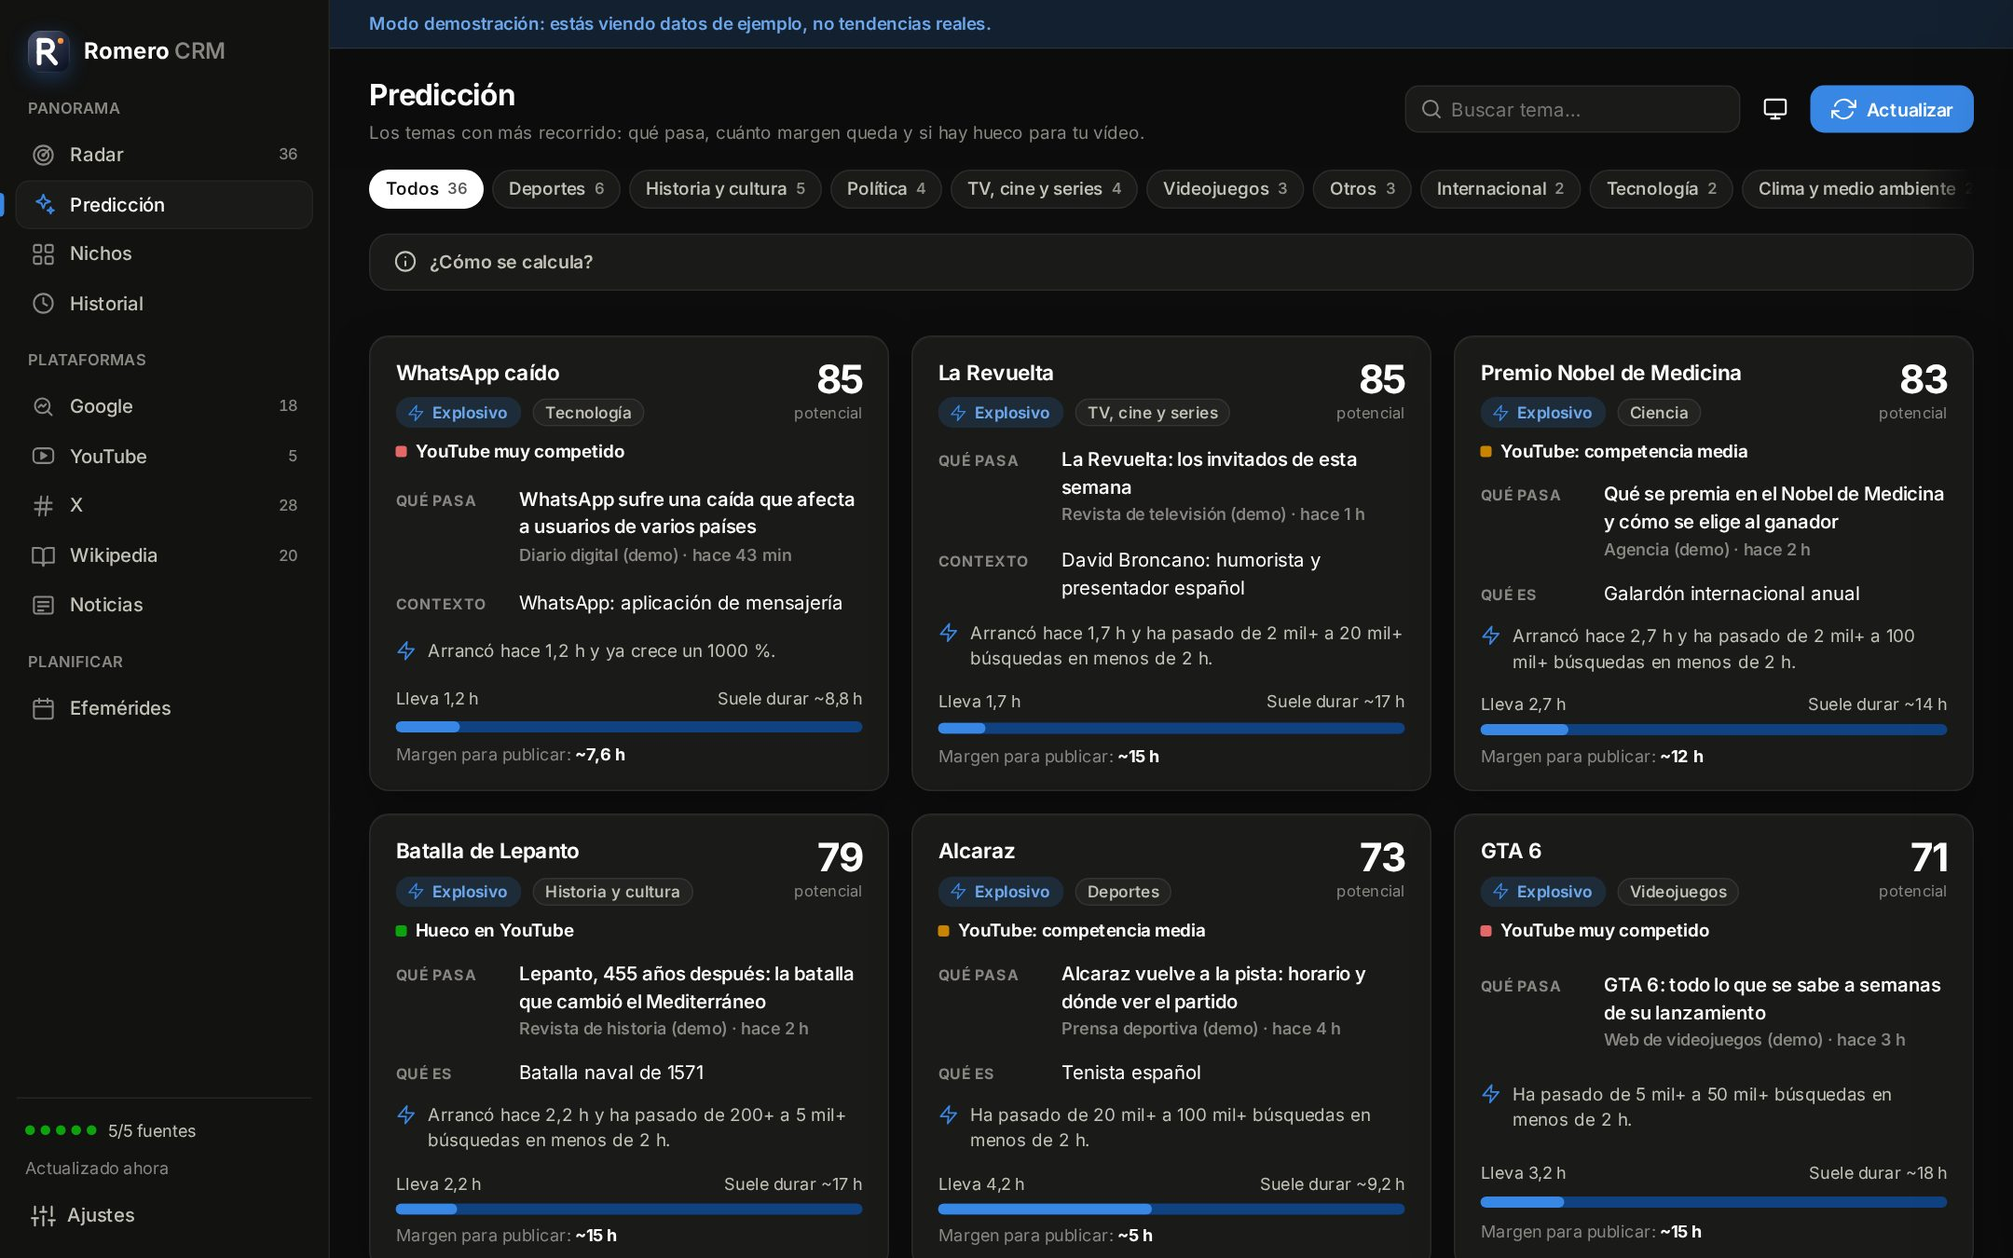
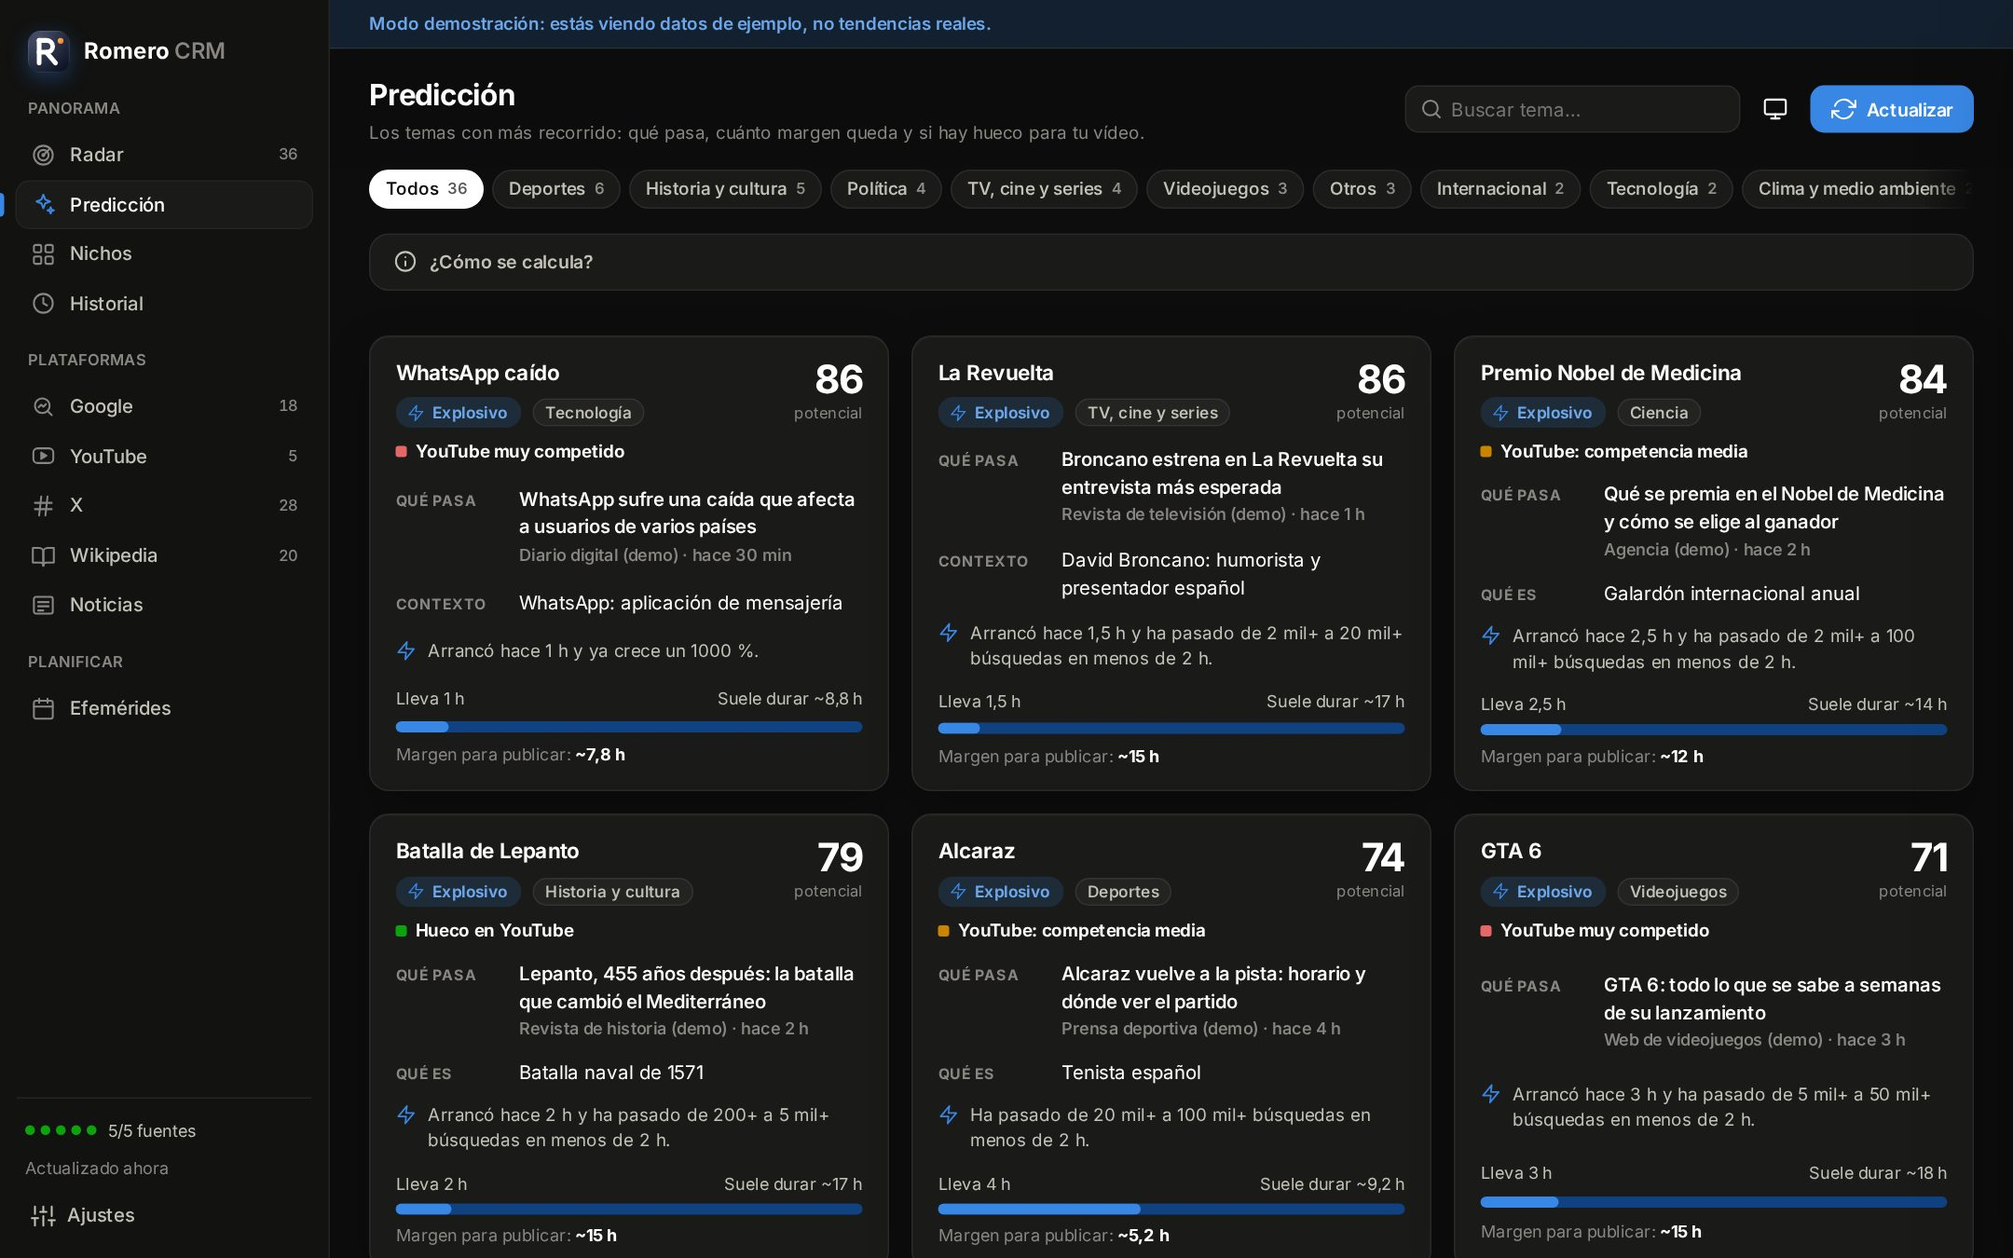
Explicaciones más fiables y para más temas, según los datos reales
El diagnóstico con tendencias reales mostró que solo 8 de los 20 primeros
temas tenían «qué pasa» y que había explicaciones engañosas:

- Los temas sin titular (los que vienen solo de X o de Wikipedia, como
  «Adamuz» o «Abascal») buscan ahora su titular en Google Noticias de las
  últimas 48 h. Los de Google piden además las noticias que Google asocia
  a la tendencia aunque ya tengan un titular de los medios.
- Un tema de una sola palabra solo se explica con un titular que la use
  como nombre propio o que Google asocie a la tendencia: «Batería» ya no
  se explica con una oferta de baterías externas.
- El contexto de Wikipedia con otro nombre solo se muestra si el titular
  habla de él: «Elecciones» ya no se describe con las de Brasil mientras
  el titular habla de las de España.
- Los temas sin nicho se reclasifican con los titulares encontrados.
- YouTube busca con «España» las palabras sueltas («Elecciones», «Votar»)
  para no medir la competencia con vídeos de otros países.
- La consulta de descripciones a Wikipedia reintenta si limita las
  peticiones, y la ficha de un tema sin titular usa el que encuentre al
  abrirla.
- En la demo, la competencia en YouTube de un tema sin datos ya no
  muestra la de otro tema.

Claude-Session: https://claude.ai/code/session_01QJ2QXsqEgvLoJoT1waY2Rv

diff --git a/romero-crm/romero_crm/web/js/app.js b/romero-crm/romero_crm/web/js/app.js
@@ -989,6 +989,7 @@ function buildBrief(topic, detail) {
 }
 
 function drawerHtml(topic, detail, loading) {
+  if (!topic.why && detail?.why) topic = { ...topic, why: detail.why };
   const stats = `
     <div class="d-stats">
       <div class="d-stat"><span>Calor</span><b>${topic.heat}</b></div>

diff --git a/romero-crm/romero_crm/engine.py b/romero-crm/romero_crm/engine.py
@@ -7,14 +7,14 @@ import traceback
 from concurrent.futures import ThreadPoolExecutor, as_completed
 
 from . import APP_NAME, APP_VERSION, analysis, explain
-from .net import APP_UA, make_session
+from .net import APP_UA, SourceError, make_session
 from .niches import NICHES, classify
 from .sources import efemerides, google_trends, news, wikipedia, x_trends, youtube
 from .sources.base import SOURCE_LABELS, SourceResult, failure
 
 CADENCE_MINUTES = {"wikipedia": 180, "google_week": 180, "efemerides": 720}
 EXPLAIN_TOP = 24
-TREND_NEWS_LIMIT = 10
+TREND_NEWS_LIMIT = 14
 DESCRIPTION_TTL = 24 * 3600
 TREND_NEWS_TTL = 45 * 60
 
@@ -195,7 +195,7 @@ class Engine:
         if self.demo_loader:
             return
         targets = [t for t in topics if not t["utility"]][:EXPLAIN_TOP]
-        for step in (self._add_descriptions, self._add_trend_news):
+        for step in (self._add_descriptions, self._add_headlines):
             try:
                 step(targets, now)
             except Exception:
@@ -208,7 +208,11 @@ class Engine:
         pending = [t["title"] for t in wanted
                    if now - (self._description_cache.get(t["title"]) or {}).get("at", 0) > DESCRIPTION_TTL]
         if pending:
-            found = wikipedia.lookup_titles(make_session(APP_UA), pending[:50])
+            try:
+                found = wikipedia.lookup_titles(make_session(APP_UA), pending[:50])
+            except SourceError:
+                time.sleep(4)
+                found = wikipedia.lookup_titles(make_session(APP_UA), pending[:50])
             for title, info in found.items():
                 self._description_cache[title] = dict(info, at=now)
             self._description_cache = {k: v for k, v in self._description_cache.items() if now - v.get("at", 0) < 7 * 86400}
@@ -226,17 +230,31 @@ class Engine:
                 if niches[0] != "otros":
                     topic["niches"], topic["niche"] = niches, niches[0]
 
-    def _add_trend_news(self, targets: list, now: float) -> None:
+    def _add_headlines(self, targets: list, now: float) -> None:
+        """Busca el titular que explica cada tema que aún no lo tiene: primero las noticias que Google
+        asocia a la tendencia y, si no hay, una búsqueda en Google Noticias de las últimas 48 h."""
         self._trend_news_cache = {k: v for k, v in self._trend_news_cache.items() if now - v["at"] < 2 * 3600}
-        need = [t for t in targets if not t.get("why") and (t.get("google") or {}).get("news_tokens")][:TREND_NEWS_LIMIT]
+
+        def wants_trend_news(topic):
+            return bool((topic.get("google") or {}).get("news_tokens")) and not any(
+                n.get("from_trend") for n in topic["news"].get("items") or [])
+
+        need = [t for t in targets if wants_trend_news(t) or (not t.get("why") and not t["title"].startswith("#"))]
+        need = need[:TREND_NEWS_LIMIT]
 
         def fetch(topic):
-            google = topic["google"]
-            cache_key = f"{google['id']}:{google.get('started_at') or 0}"
+            google = topic.get("google") or {}
+            cache_key = f"{topic['key']}:{google.get('started_at') or 0}"
             cached = self._trend_news_cache.get(cache_key)
             if cached and now - cached["at"] < TREND_NEWS_TTL:
                 return topic, cached["items"]
-            items = google_trends.fetch_news_by_tokens(google["news_tokens"][:3])
+            items = []
+            if wants_trend_news(topic):
+                items = [{"title": n["title"], "url": n["url"], "source": n["source"], "published": n.get("time"),
+                          "from_trend": True} for n in google_trends.fetch_news_by_tokens(google["news_tokens"][:3])]
+            if not items and not topic.get("why") and not topic["title"].startswith("#"):
+                items = [{"title": n["title"], "url": n["url"], "source": n["source"], "published": n.get("published"),
+                          "coverage": n.get("coverage") or 1} for n in news.search(topic["query"], limit=8)]
             self._trend_news_cache[cache_key] = {"at": now, "items": items}
             return topic, items
 
@@ -248,14 +266,25 @@ class Engine:
                     topic, items = future.result()
                 except Exception:
                     continue
-                extra = [{"title": n["title"], "url": n["url"], "source": n["source"], "published": n.get("time"),
-                          "from_trend": True} for n in items]
-                topic["news"]["items"] = analysis.dedupe_news(extra + topic["news"]["items"])[:10]
+                if not items:
+                    continue
+                topic["news"]["items"] = analysis.dedupe_news(items + topic["news"]["items"])[:10]
+                if topic["niche"] == "otros":
+                    headlines = [n["title"] for n in topic["news"]["items"] if explain.qualifies(topic, n)]
+                    niches = classify(topic["title"], topic.get("related") or [], headlines, None, topic.get("description") or "")
+                    if niches[0] != "otros":
+                        topic["niches"], topic["niche"] = niches, niches[0]
 
     @staticmethod
     def _youtube_context(topic: dict):
+        """Palabra que se añade a la búsqueda de YouTube para no confundir el tema con otro:
+        «Ángel Arroyo ciclista»; y «España» para palabras sueltas como «Elecciones» o «Votar»."""
         if topic.get("what") and not topic.get("what_subject"):
-            return explain.context_word(topic["what"])
+            word = explain.context_word(topic["what"])
+            if word:
+                return word
+        if not topic["title"].startswith("#") and not explain.looks_proper(topic):
+            return "España"
         return None
 
     def _refresh_youtube(self, topics: list, limit: int, force: bool) -> None:
@@ -397,7 +426,7 @@ class Engine:
         detail = {"key": topic_key, "news": list(topic["news"]["items"]), "youtube": None, "history": []}
         if self.demo_loader:
             demo = self.demo_loader("detail") or {}
-            detail["youtube"] = (demo.get("youtube") or {}).get(topic_key) or next(iter((demo.get("youtube") or {}).values()), None)
+            detail["youtube"] = (demo.get("youtube") or {}).get(topic_key)
             detail["history"] = self.storage.observations(topic_key, time.time() - 3 * 86400)
             return detail
 
@@ -428,6 +457,8 @@ class Engine:
                 detail["youtube"] = result
             except Exception as exc:
                 errors.append(f"YouTube: {exc}")
+        if not topic.get("why"):
+            detail["why"] = explain.pick_why(topic, detail["news"])
         detail["history"] = self.storage.observations(topic_key, time.time() - 3 * 86400)
         detail["errors"] = errors
         self._detail_cache[topic_key] = {"_at": time.time(), "data": detail}

diff --git a/romero-crm/romero_crm/explain.py b/romero-crm/romero_crm/explain.py
@@ -87,6 +87,46 @@ def mentions(title: str, headline: str) -> bool:
     return bool(set(tokens(title)) & set(tokens(headline or "")))
 
 
+def proper_mention(title: str, headline: str) -> bool:
+    """Un tema de una sola palabra solo se explica con titulares que la usen como nombre propio:
+    «Abascal responde…» sí; «la batería externa…» no habla del tema «Batería»."""
+    significant = tokens(title or "")
+    if len(significant) != 1:
+        return True
+    target = significant[0]
+    accented = strip_accents(title or "") != (title or "")
+    for word in re.findall(_WORD, headline or ""):
+        if not word[:1].isupper():
+            continue
+        if norm(word) == target and (not accented or word.lower() in (title or "").lower()):
+            return True
+    return False
+
+
+def qualifies(topic: dict, headline: dict) -> bool:
+    """¿Puede este titular explicar por qué el tema es tendencia?"""
+    if headline.get("from_trend"):
+        return True
+    title, text = topic.get("title") or "", clean_headline(headline.get("title") or "")
+    return mentions(title, text) and proper_mention(title, text)
+
+
+def subject_fits(topic_title: str, subject: str, why_title: str) -> bool:
+    """El artículo de Wikipedia de otro nombre («Elecciones generales de Brasil de 2026» para el tema
+    «Elecciones») solo sirve de contexto si el titular del «qué pasa» habla de él."""
+    own = set(tokens(topic_title or ""))
+    base = re.sub(r"\s*\([^)]*\)\s*$", "", subject or "")
+    words = re.findall(_WORD, base)
+    proper = [norm(w) for i, w in enumerate(words) if i > 0 and w[:1].isupper() and not w.isdigit() and norm(w) not in own]
+    extra = [t for t in tokens(base) if t not in own and not t.isdigit()]
+    if not extra:
+        return True
+    found = set(tokens(why_title or ""))
+    if proper:
+        return all(p in found for p in proper)
+    return any(t in found for t in extra)
+
+
 def looks_proper(topic: dict) -> bool:
     significant = tokens(topic.get("title") or "")
     if len(significant) >= 2:
@@ -143,24 +183,27 @@ def summary_line(topic: dict) -> str:
     return " · ".join(parts[:3])
 
 
+def pick_why(topic: dict, headlines: list):
+    """El primer titular (ya ordenado por relevancia) que de verdad explica el tema."""
+    best = next((h for h in headlines if qualifies(topic, h)), None)
+    if not best:
+        return None
+    return {"title": clean_headline(best["title"]), "source": best.get("source"),
+            "published": best.get("published"), "url": best.get("url")}
+
+
 def explain(topic: dict, now: float = None) -> None:
     ranked = rank_headlines(topic, now)
     if ranked:
         topic["news"]["items"] = ranked
-    best = next((h for h in ranked if h.get("from_trend") or mentions(topic.get("title") or "", clean_headline(h.get("title") or ""))), None)
-    topic["why"] = {
-        "title": clean_headline(best["title"]),
-        "source": best.get("source"),
-        "published": best.get("published"),
-        "url": best.get("url"),
-    } if best else None
+    topic["why"] = pick_why(topic, ranked)
     topic["what"], topic["what_subject"] = None, None
-    wiki = topic.get("wikipedia")
+    title, wiki = topic.get("title") or "", topic.get("wikipedia")
     if topic.get("description") and wiki and not is_disambiguation(topic["description"]):
-        topic["what"] = _sentence_case(topic["description"])
-        if not same_entity(topic.get("title") or "", wiki.get("title") or ""):
-            topic["what_subject"] = wiki.get("title")
-    elif topic.get("extra_description"):
+        subject = None if same_entity(title, wiki.get("title") or "") else wiki.get("title")
+        if not subject or subject_fits(title, subject, (topic["why"] or {}).get("title")):
+            topic["what"], topic["what_subject"] = _sentence_case(topic["description"]), subject
+    if not topic["what"] and topic.get("extra_description"):
         topic["what"] = _sentence_case(topic["extra_description"])
     topic["summary"] = summary_line(topic)
 

diff --git a/romero-crm/tests/test_parsers.py b/romero-crm/tests/test_parsers.py
@@ -429,6 +429,60 @@ class ExplainTests(unittest.TestCase):
         explain.explain(topic)
         self.assertIsNone(topic["why"])
 
+    def test_single_word_needs_a_headline_about_it(self):
+        now = time.time()
+        topic = {"title": "Batería", "niche": "tecnologia", "news": {"count": 1, "outlets": 1, "items": [
+            {"title": "Ya en Action la batería externa Philips de gran capacidad", "source": "Xataka", "published": now}]}}
+        explain.explain(topic, now)
+        self.assertIsNone(topic["why"])
+        topic["news"]["items"].append({"title": "Por qué todo el mundo busca hoy la batería", "source": "20Minutos",
+                                       "published": now, "from_trend": True})
+        explain.explain(topic, now)
+        self.assertEqual(topic["why"]["source"], "20Minutos")
+
+    def test_context_must_match_what_is_happening(self):
+        now = time.time()
+        topic = {"title": "Elecciones", "niche": "politica", "niches": ["politica"],
+                 "description": "proceso electoral presidencial en Brasil",
+                 "wikipedia": {"title": "Elecciones generales de Brasil de 2026", "views": 11000},
+                 "news": {"count": 1, "outlets": 1, "items": [
+                     {"title": "Cuándo son las próximas elecciones generales en España convocadas por Pedro Sánchez",
+                      "source": "ABC", "published": now, "from_trend": True}]}}
+        explain.explain(topic, now)
+        self.assertIn("Pedro Sánchez", topic["why"]["title"])
+        self.assertIsNone(topic["what"])
+        match = {"title": "Barcelona - Real Madrid femenino", "niche": "deportes", "niches": ["deportes"],
+                 "description": "futbolista española", "wikipedia": {"title": "Claudia Pina", "views": 5000},
+                 "news": {"count": 1, "outlets": 1, "items": [
+                     {"title": "Claudia Pina hace historia en el Clásico femenino", "source": "DAZN", "published": now,
+                      "from_trend": True}]}}
+        explain.explain(match, now)
+        self.assertEqual((match["what_subject"], match["what"]), ("Claudia Pina", "Futbolista española"))
+
+    def test_topics_without_headlines_get_one_from_google_news(self):
+        import tempfile
+        from pathlib import Path
+        from unittest import mock
+
+        from romero_crm.config import Settings
+        from romero_crm.engine import Engine
+        from romero_crm.storage import Storage
+
+        now = time.time()
+        topic = {"key": "adamuz", "title": "Adamuz", "query": "Adamuz", "niche": "otros", "niches": ["otros"],
+                 "utility": False, "why": None, "x": {"rank": 10}, "news": {"count": 0, "outlets": 0, "items": []}}
+        found = [{"title": "Las víctimas de Adamuz llevan su reclamación a Europa", "url": "https://n.example/a",
+                  "source": "Onda Cero", "published": int(now), "coverage": 3}]
+        with tempfile.TemporaryDirectory() as tmp:
+            (Path(tmp) / "cache").mkdir()
+            engine = Engine(Settings(Path(tmp) / "settings.json"), Storage(Path(tmp)))
+            with mock.patch("romero_crm.sources.news.search", return_value=found) as search:
+                engine._add_headlines([topic], now)
+                engine._add_headlines([dict(topic, key="adamuz", news={"items": []})], now)
+        self.assertEqual(search.call_count, 1)
+        explain.explain(topic, now)
+        self.assertEqual(topic["why"]["source"], "Onda Cero")
+
     def test_wikipedia_lookup_follows_redirects(self):
         class FakeResponse:
             status_code = 200

diff --git a/romero-crm/romero_crm/demo.py b/romero-crm/romero_crm/demo.py
@@ -31,7 +31,7 @@ GOOGLE_24H = [
     ("huelga renfe", 50000, 200, 9.0, None, [19], ["huelga renfe octubre", "servicios mínimos renfe"], "peak",
      [("Huelga de Renfe: servicios mínimos y trenes afectados este lunes", "Diario nacional (demo)")]),
     ("la revuelta", 20000, 300, 1.5, None, [4], ["broncano", "la revuelta invitado hoy"], "explosive",
-     [("La Revuelta: los invitados de esta semana", "Revista de televisión (demo)")]),
+     [("Broncano estrena en La Revuelta su entrevista más esperada", "Revista de televisión (demo)")]),
     ("día mundial de los docentes", 20000, 400, 7.0, None, [9], ["día del docente", "5 de octubre"], "peak",
      [("Día Mundial de los Docentes: por qué se celebra el 5 de octubre", "Diario educativo (demo)")]),
     ("bonoloto", 50000, 200, 3.0, None, [11], ["bonoloto resultados", "comprobar bonoloto"], "peak", []),
@@ -101,7 +101,7 @@ NEWS = {
     "economia": [("El euríbor cierra septiembre: así quedan las hipotecas", "Diario económico (demo)", 9)],
     "tecnologia": [("Cómo comprobar si WhatsApp está caído y qué hacer mientras tanto", "Web tecnológica (demo)", 1)],
     "entretenimiento": [
-        ("La Revuelta: los invitados de esta semana", "Revista de televisión (demo)", 3),
+        ("Broncano estrena en La Revuelta su entrevista más esperada", "Revista de televisión (demo)", 3),
         ("Gran Hermano: así fue la última gala", "Revista de televisión (demo)", 12),
     ],
     "deportes": [

diff --git a/romero-crm/romero_crm/diagnose.py b/romero-crm/romero_crm/diagnose.py
@@ -289,7 +289,7 @@ def diag_pipeline() -> None:
         print(f"       cifras:   {topic.get('summary')!r}")
         if chip:
             print(f"       youtube:  {chip.get('label')} · {chip.get('count')} vídeos · máx {chip.get('top_views')}")
-    for item in ((state.get("platforms") or {}).get("youtube") or [])[:6]:
+    for item in ((state.get("platforms") or {}).get("youtube") or [])[:10]:
         print(f"   · youtube «{item.get('query')}» busca {item.get('search_url', '').split('search_query=')[-1].split('&')[0]!r}: "
               f"{[(v['title'][:60], v['views']) for v in (item.get('videos') or [])[:3]]}")
     linked = [t for t in topics if t.get("story")]
